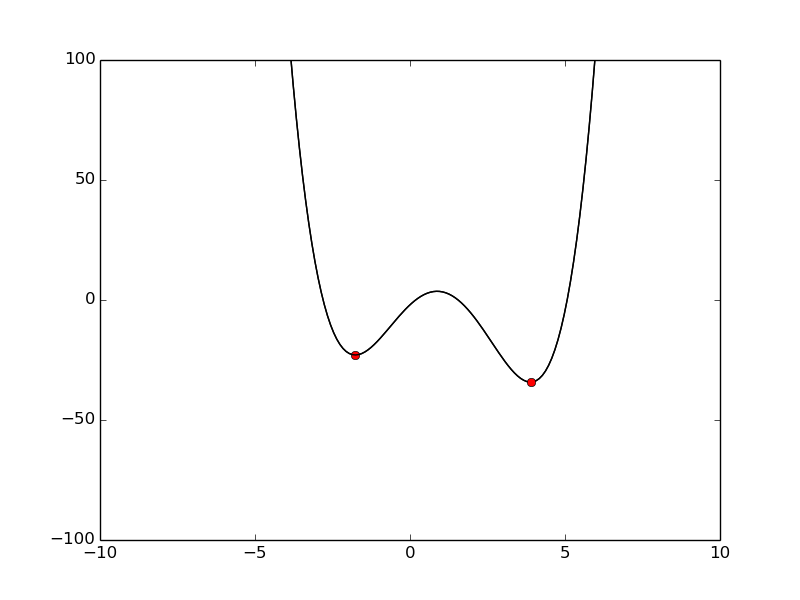
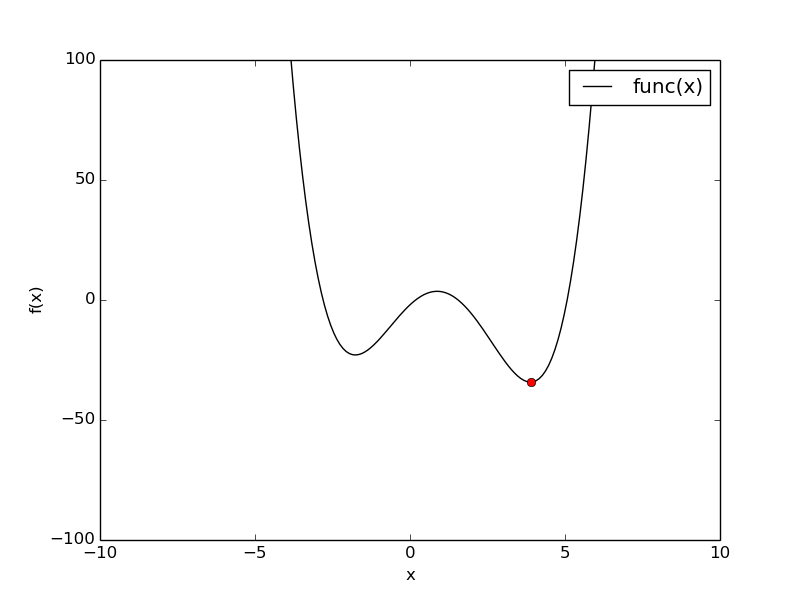
Improved the eample on the Fitter

Changed region(s): [[0.6875, 0.09, 0.9062, 0.18], [0.0312, 0.48, 0.0625, 0.54], [0.4375, 0.57, 0.4688, 0.6]]

diff --git a/pyterpol_examples/Fitter/example.py b/pyterpol_examples/Fitter/example.py
@@ -55,7 +55,11 @@ x = np.linspace(-10, 10, 200)
 plt.plot(x, [func([v]) for v in x], 'k-', label='func(x)')
 plt.plot(fitter.result, func(fitter.result), 'ro')
 plt.ylim(-100, 100)
+plt.xlabel('x')
+plt.ylabel('f(x)')
+plt.legend()
 plt.savefig('result_nm.png')
+plt.close()
 
 # We see that the minimizer failed to find the global minimum
 # it is not very unusual if we have similar minima.
@@ -75,6 +79,9 @@ x = np.linspace(-10, 10, 200)
 plt.plot(x, [func([v]) for v in x], 'k-', label='func(x)')
 plt.plot(fitter.result, func(fitter.result), 'ro')
 plt.ylim(-100, 100)
+plt.xlabel('x')
+plt.ylabel('f(x)')
+plt.legend()
 plt.savefig('result_de.png')
 
 # The simplex was faster, but converged only
